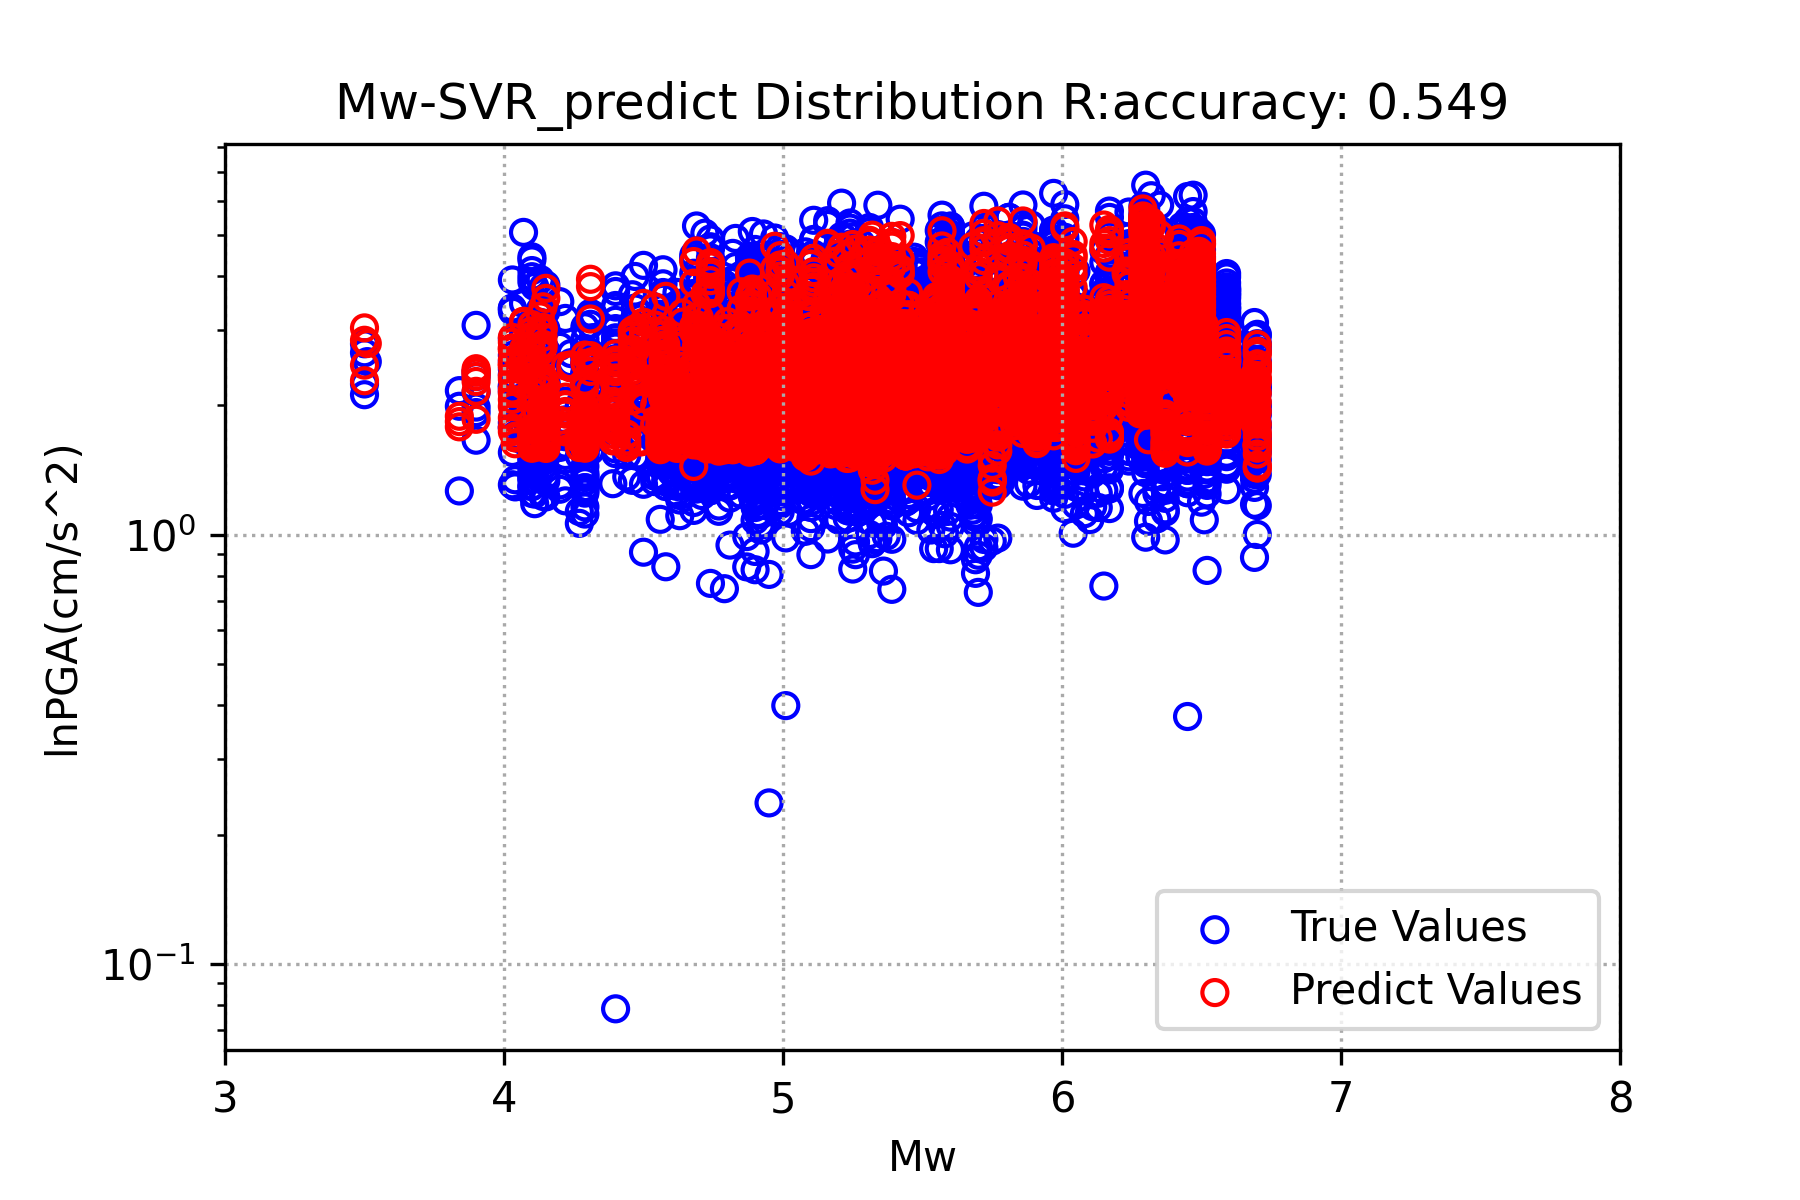
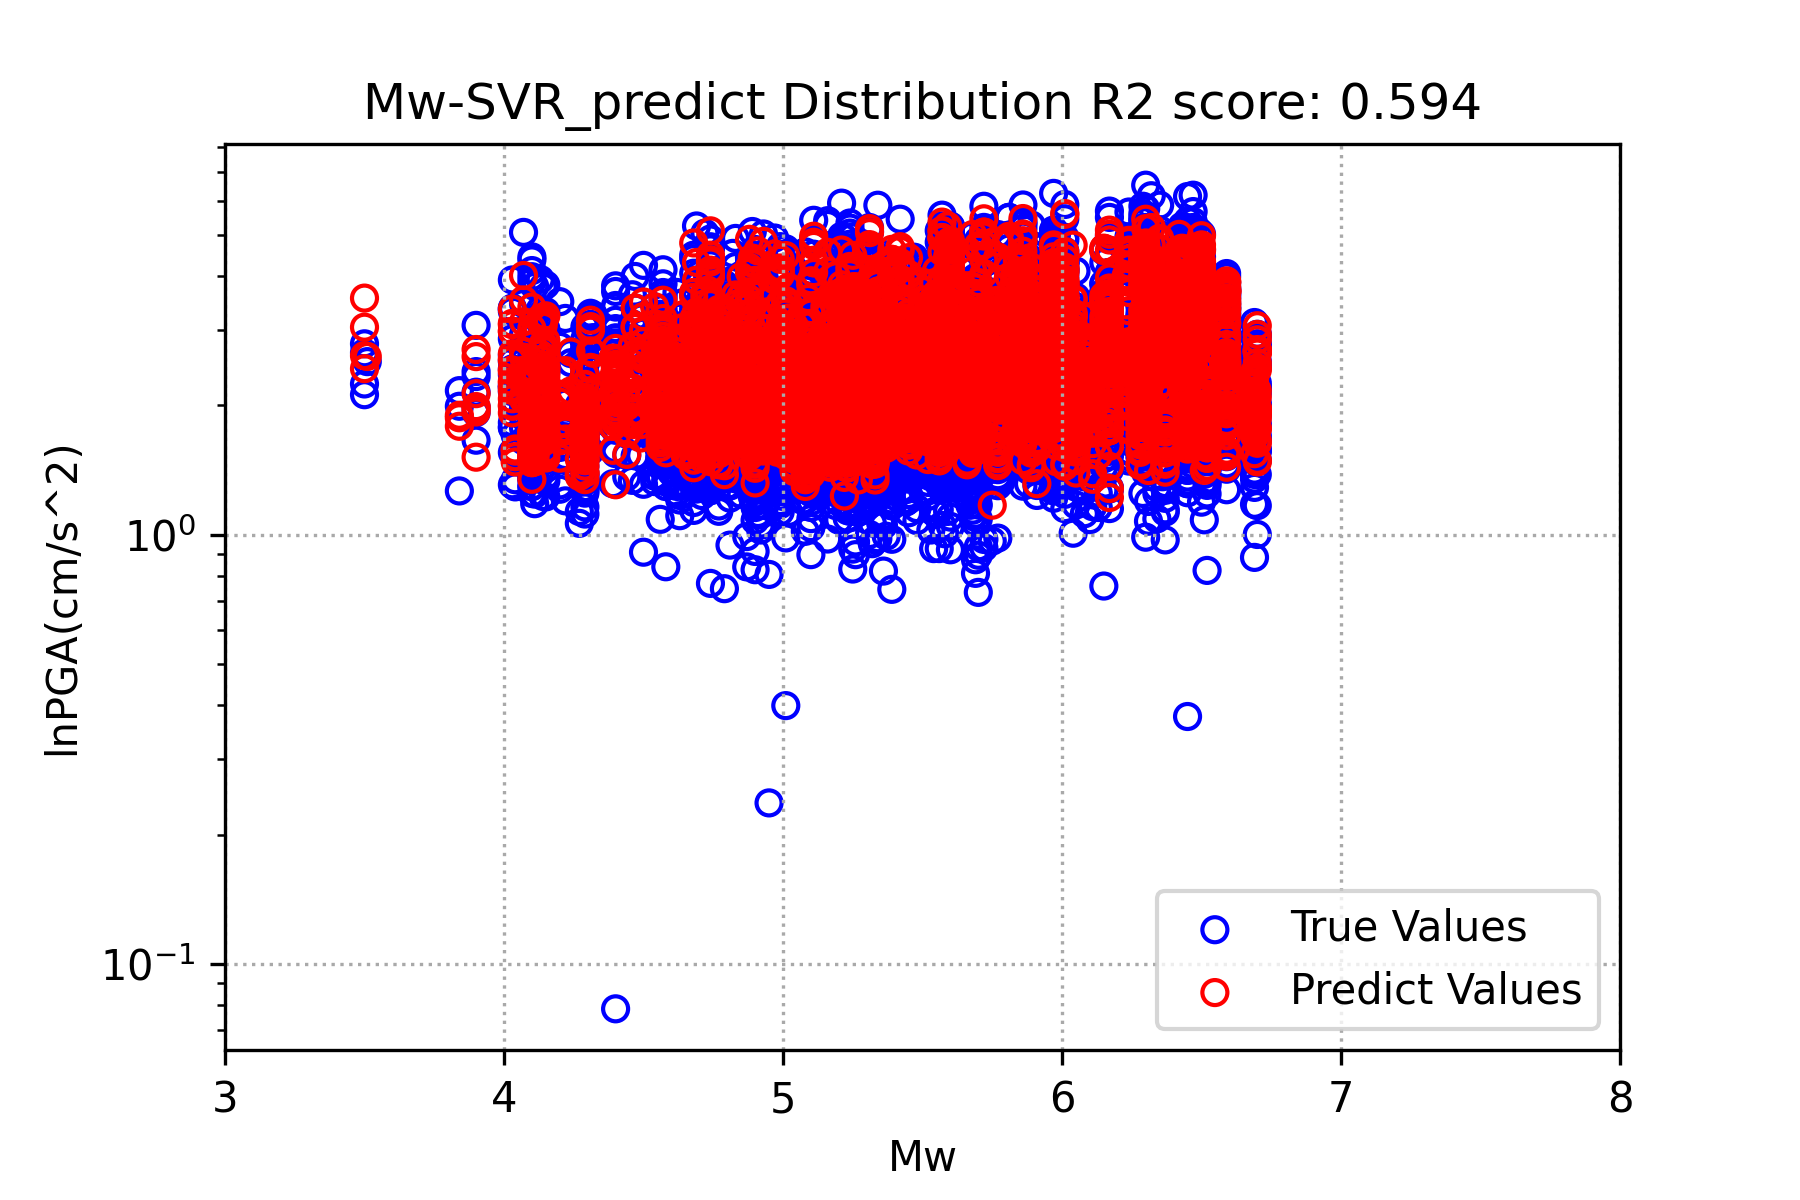
finish paper figure reproduce

Changed region(s): [[0.2489, 0.1542, 0.7156, 0.4317], [0.1867, 0.0617, 0.84, 0.1233], [0.1867, 0.2467, 0.2178, 0.3392]]

diff --git a/machine_learning/SVR/SVR_TSMIP_smogn.py b/machine_learning/SVR/SVR_TSMIP_smogn.py
@@ -135,6 +135,85 @@ print("初步得到的分數: ", score)
 scores = cross_val_score(svr_rbf, x, y, cv=6, scoring=two_scorer())
 print("CV後 R2 scores:", scores)
 
+######################### trainsubset & testsubset distribution #########################
+# 1.PGA Vs30 distribution 
+plt.grid(color='gray', linestyle='--', linewidth=0.5)
+plt.scatter(np.exp(x_train[:, 0]),
+            np.exp(y_train),
+            marker='o',
+            facecolors='none',
+            edgecolors='grey',
+            label='Training Subset')  #數據點
+plt.scatter(np.exp(x_test[:, 0]),
+            np.exp(y_test),
+            marker='o',
+            facecolors='none',
+            edgecolors='red',
+            label='Testing Subset')  #數據點
+plt.xscale("log")
+plt.yscale("log")
+plt.xlim(1e2, 2*1e3)
+plt.ylim(1e-1, 1e4)
+plt.xlabel('Vs30(m/s)')
+plt.ylabel('PGA(cm/s^2)')
+plt.title('TSMIP_train_test_subset Vs30 PGA distribution')
+plt.legend()
+plt.savefig(f'TSMIP_train_test_subset Vs30 PGA distribution.png', dpi=300)
+plt.show()
+
+# 2.PGA Mw distribution 
+
+plt.grid(color='gray', linestyle='--', linewidth=0.5)
+plt.scatter(x_train[:, 1],
+            np.exp(y_train),
+            marker='o',
+            facecolors='none',
+            edgecolors='grey',
+            label='Training Subset')  #數據點
+plt.scatter(x_test[:, 1],
+            np.exp(y_test),
+            marker='o',
+            facecolors='none',
+            edgecolors='red',
+            label='Testing Subset')  #數據點
+# plt.xscale("log")
+plt.yscale("log")
+plt.xlim(3, 8)
+plt.ylim(1e-1, 1e4)
+plt.xlabel('Mw')
+plt.ylabel('PGA(cm/s^2)')
+plt.title('TSMIP_train_test_subset Mw PGA distribution')
+plt.legend()
+plt.savefig(f'TSMIP_train_test_subset Mw PGA distribution.png', dpi=300)
+plt.show()
+
+
+# 3.PGA Rrup distribution
+
+plt.grid(color='gray', linestyle='--', linewidth=0.5)
+plt.scatter(np.exp(x_train[:, 2]),
+            np.exp(y_train),
+            marker='o',
+            facecolors='none',
+            edgecolors='grey',
+            label='Training Subset')  #數據點
+plt.scatter(np.exp(x_test[:, 2]),
+            np.exp(y_test),
+            marker='o',
+            facecolors='none',
+            edgecolors='red',
+            label='Testing Subset')  #數據點
+plt.xscale("log")
+plt.yscale("log")
+plt.xlim(1e0, 1e3)
+plt.ylim(1e-1, 1e4)
+plt.xlabel('Rrup(km)')
+plt.ylabel('PGA(cm/s^2)')
+plt.title('TSMIP_train_test_subset Rrup PGA distribution')
+plt.legend()
+plt.savefig(f'TSMIP_train_test_subset Rrup PGA distribution.png', dpi=300)
+plt.show()
+
 ######################### residual #########################
 # 1. 計算Vs30_residual
 residual = svr_predict - y_test
@@ -396,6 +475,9 @@ plt.show()
 
 ###################### 預測PGA和實際PGA #####################
 # training subset
+residual = svr_predict_train - y_train
+residual_total_mean = np.mean(residual)
+residual_total_std = np.std(residual)
 plt.grid(linestyle=':', color='darkgrey')
 plt.scatter(y_train,
             svr_predict_train,
@@ -406,6 +488,8 @@ plt.scatter(y_train,
 x = [-5, 10]
 y = [-5, 10]
 plt.plot(x, y, color='blue')
+plt.plot(x, y+residual_total_std, color='blue',linestyle='--')
+plt.plot(x, y-residual_total_std, color='blue',linestyle='--')
 plt.xlabel('Measured ln(PGA)(cm/s^2)')
 plt.ylabel('SVR_Predict ln(PGA)(cm/s^2)')
 plt.ylim(-5, 10)
@@ -418,6 +502,9 @@ plt.savefig(f'Measured_Predict Training Subset.png', dpi=300)
 plt.show()
 
 # testing subset
+residual = svr_predict - y_test
+residual_total_mean = np.mean(residual)
+residual_total_std = np.std(residual)
 plt.grid(linestyle=':', color='darkgrey')
 plt.scatter(y_test,
             svr_predict,
@@ -428,6 +515,8 @@ plt.scatter(y_test,
 x = [-5, 10]
 y = [-5, 10]
 plt.plot(x, y, color='blue')
+plt.plot(x, y+residual_total_std, color='blue',linestyle='--')
+plt.plot(x, y-residual_total_std, color='blue',linestyle='--')
 plt.xlabel('Measured ln(PGA)(cm/s^2)')
 plt.ylabel('SVR_Predict ln(PGA)(cm/s^2)')
 plt.ylim(-5, 10)
